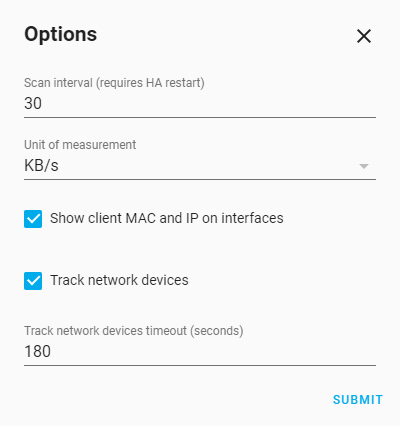
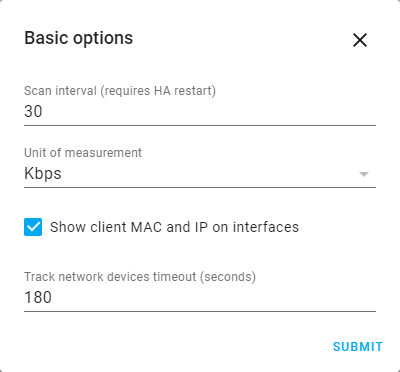
Capture permission denied when using switches #80

diff --git a/README.md b/README.md
@@ -37,14 +37,18 @@ Monitor and control your Mikrotik device from Home Assistant.
    * Enable/disable interfaces
    * Monitor RX/TX traffic per interface
    * Monitor device presence per interface
-   * IP, MAC, Link information per interface for connected devices
+   * IP, MAC, Link information per an interface for connected devices
  * Enable/disable NAT rule switches
  * Enable/disable Simple Queue switches
+ * Enable/disable Mangle switches
+ * Monitor and control PPP users
+ * Kid Control
  * Mikrotik Accounting traffic sensors per hosts for RX/TX WAN/LAN
  * Device tracker for hosts in network
  * System sensors (CPU, Memory, HDD, Temperature)
  * Check firmware update
- * Execute scripts using switches or services
+ * Execute scripts
+ * View environment variables
  * Configurable update interval
  * Configurable traffic unit (bps, Kbps, Mbps, B/s, KB/s, MB/s)
  * Supports monitoring of multiple mikrotik devices simultaneously
@@ -60,25 +64,36 @@ Monitor and control status on each Mikrotik interface, both lan and wlan. Both p
 ## NAT
 Monitor and control individual NAT rules.
 
-More information about NAT rules can be found on [Mikrotik support page](https://wiki.mikrotik.com/wiki/Manual:IP/Firewall/NAT).
-
-NOTE: dst-port and protocol combination must be unique for each rule. All conflicting NAT rules will not be available in HA.
+More information about NAT rules can be found on [Mikrotik support page](https://help.mikrotik.com/docs/display/ROS/NAT).
 
 ![NAT switch](https://raw.githubusercontent.com/tomaae/homeassistant-mikrotik_router/master/docs/assets/images/ui/nat.png)
+
+## Mangle
+Monitor and control individual Mangle rules.
+
+More information about Mangle rules can be found on [Mikrotik support page](https://help.mikrotik.com/docs/display/ROS/Mangle).
+
+![Mangle switch](https://raw.githubusercontent.com/tomaae/homeassistant-mikrotik_router/master/docs/assets/images/ui/mangle_switch.png)
+
 
 ## Simple Queue
 Control simple queues.
 
-More information about simple queues can be found on [Mikrotik support page](https://wiki.mikrotik.com/wiki/Manual:Queue#Simple_Queues).
+More information about simple queues can be found on [Mikrotik support page](https://help.mikrotik.com/docs/display/ROS/Queues#heading-SimpleQueue).
 
 NOTE: FastTracked packets are not processed by Simple Queues.
 
 ![Queue switch](https://raw.githubusercontent.com/tomaae/homeassistant-mikrotik_router/master/docs/assets/images/ui/queue_switch.png)
 
+
+### PPP
+Control and monitor PPP users.
+
+![PPP switch](https://raw.githubusercontent.com/tomaae/homeassistant-mikrotik_router/master/docs/assets/images/ui/ppp_switch.png)
+![PPP tracker](https://raw.githubusercontent.com/tomaae/homeassistant-mikrotik_router/master/docs/assets/images/ui/ppp_tracker.png)
+
 ## Host Tracking
 Track availability of all network devices. All devices visible to Mikrotik device can be tracked, including: LAN connected devices and both Wireless and CAPsMAN from Mikrotik wireless package.
-
-NOTE: Host Tracking is disabled by default and has to be enabled in integration options.
 
 ![Host tracker](https://raw.githubusercontent.com/tomaae/homeassistant-mikrotik_router/master/docs/assets/images/ui/host_tracker.png)
 
@@ -88,7 +103,15 @@ You can execute scripts by automatically created switches or using services.
 
 ![Script Switch](https://raw.githubusercontent.com/tomaae/homeassistant-mikrotik_router/master/docs/assets/images/ui/script_switch.png)
 
+## Kid Control
+Monitor and control.
+
+![Kid Control](https://raw.githubusercontent.com/tomaae/homeassistant-mikrotik_router/master/docs/assets/images/ui/kidcontrol_switch.png)
+
+
 ## Accounting
+*RouterOS 7+ no longer support accounting*
+
 Monitor per-IP throughput tracking based on Mikrotik Accounting.
 
 Feature is present in Winbox IP-Accounting. Make sure that threshold is set to reasonable value to store all connections between user defined scan interval. Max value is 8192 so for piece of mind I recommend setting that value.
@@ -129,8 +152,10 @@ NOTE: Do not mistake "Mikrotik Router" integration with HA build-in integration 
 * "Scan interval" - Scan/refresh time in seconds. HA needs to be reloaded for scan interval change to be applied
 * "Unit of measurement" - Traffic sensor measurement (bps, Kbps, Mbps, B/s, KB/s, MB/s)
 * "Show client MAC and IP on interfaces" - Display connected IP and MAC address for devices connected to ports on router
-* "Track network devices" - Enable device tracker
 * "Track network devices timeout" - Tracked devices will be marked as away after timeout (does not apply to Mikrotik wireless and caps-man)
+
+![Integration sensors](https://raw.githubusercontent.com/tomaae/homeassistant-mikrotik_router/master/docs/assets/images/ui/integration_options_sensors.png)
+Select sensors
 
 # Development
 

diff --git a/info.md b/info.md
@@ -1,6 +1,6 @@
 {% if installed %}
-{% if version_installed.replace("v", "").replace(".","") | int < 15  %}
-**IMPORTANT: Integration needs to be re-added to take advantage of all new features.**
+{% if version_installed.replace("v", "").replace(".","") | int == 16  %}
+**IMPORTANT: This update changes some HA UIDs to improve handling of duplicate entries. After an update, delete old entries and check entity names in all your automations where you use this integration.**
 {% endif %}
 {% endif %}
 
@@ -11,14 +11,18 @@ Monitor and control your Mikrotik device from Home Assistant.
    * Enable/disable interfaces
    * Monitor RX/TX traffic per interface
    * Monitor device presence per interface
-   * IP, MAC, Link information per interface for connected devices
+   * IP, MAC, Link information per an interface for connected devices
  * Enable/disable NAT rule switches
  * Enable/disable Simple Queue switches
+ * Enable/disable Mangle switches
+ * Monitor and control PPP users
+ * Kid Control
  * Mikrotik Accounting traffic sensors per hosts for RX/TX WAN/LAN
  * Device tracker for hosts in network
  * System sensors (CPU, Memory, HDD, Temperature)
  * Check firmware update
  * Execute scripts
+ * View environment variables
  * Configurable update interval
  * Configurable traffic unit (bps, Kbps, Mbps, B/s, KB/s, MB/s)
  * Supports monitoring of multiple mikrotik devices simultaneously
